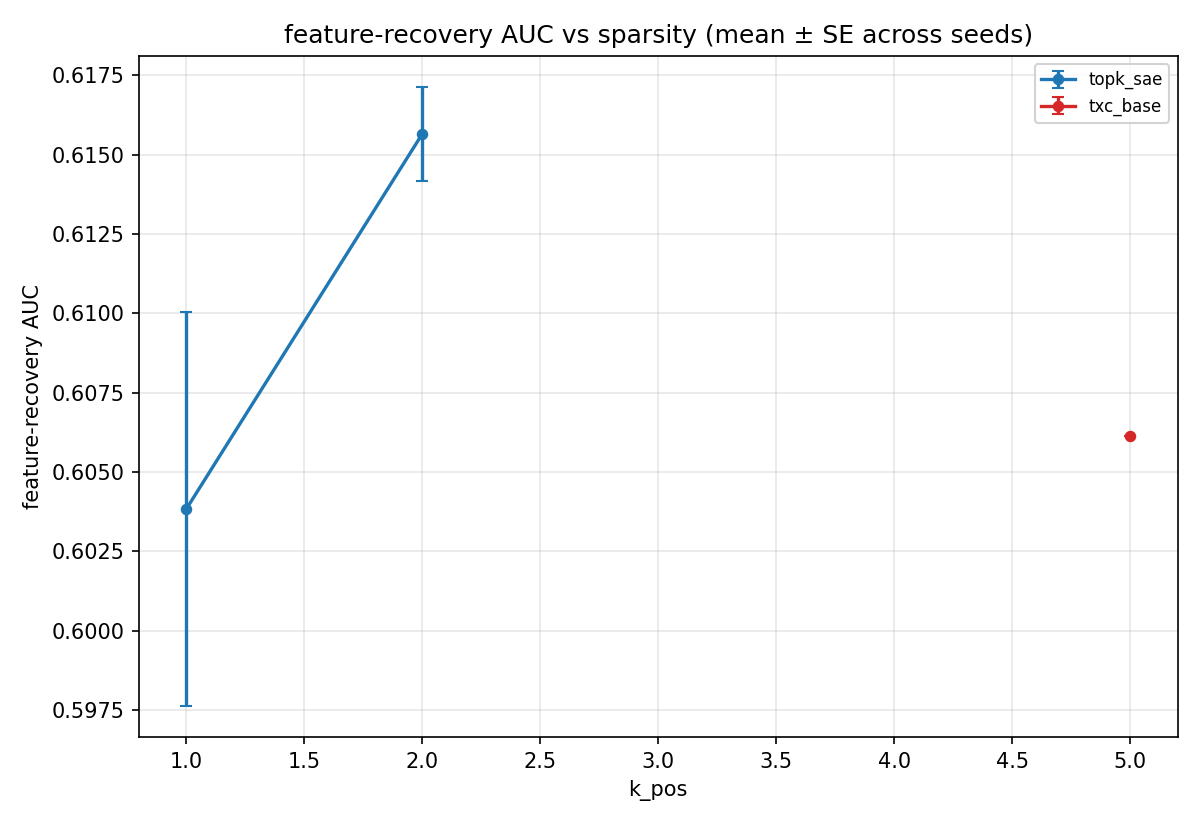
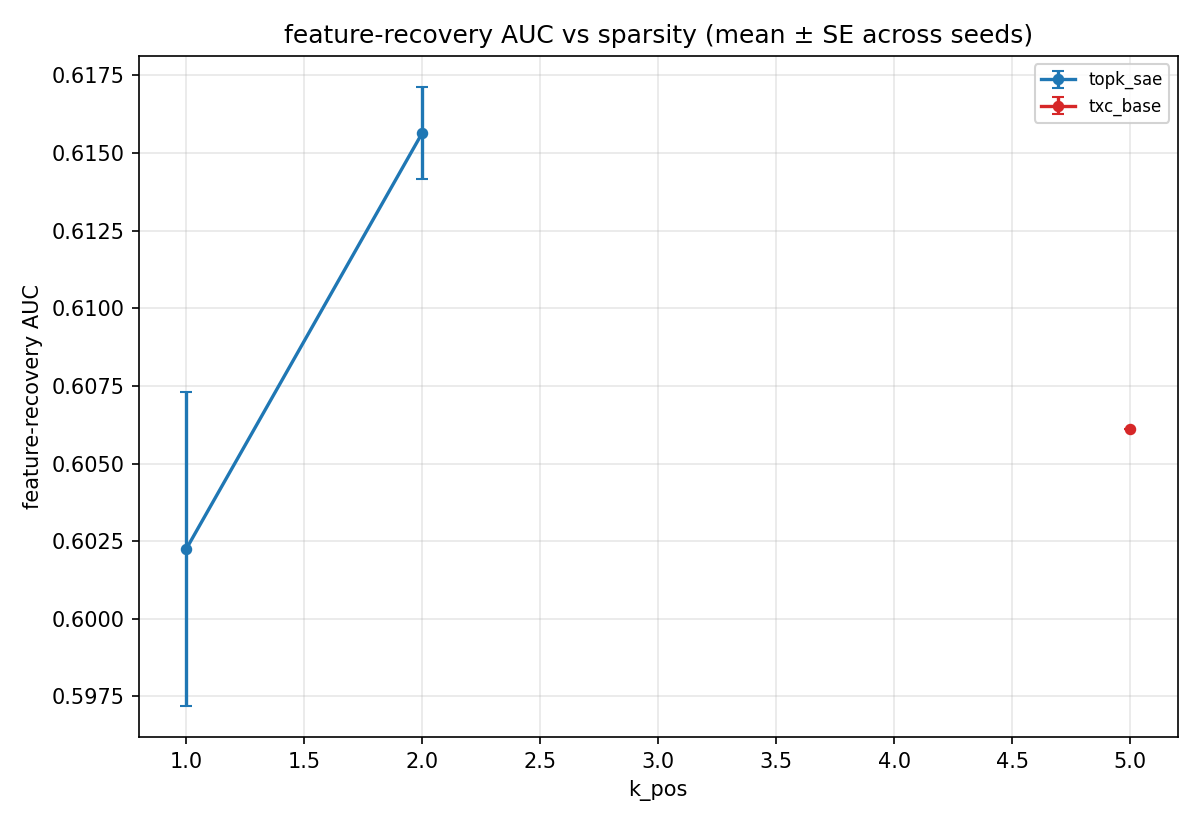
c1+c2 paper auto: refresh synthetic bundles (c1=, c2= leaderboard rows)
Auto-generated by purified/scripts/synthetic_paper_renderer.py.
Inputs: results/leaderboard.jsonl filtered to component in (c1,c2)
with eval_cfg._full_suite=true (the c{1,2}_synthetic_*_full driver flag).

diff --git a/purified/docs/components/c1_paper_results.md b/purified/docs/components/c1_paper_results.md
@@ -1,6 +1,6 @@
 # C1 Synthetic TopK — paper-ready results (auto-generated)
 
-_Last refreshed: 2026-05-06T19:25:41+00:00_
+_Last refreshed: 2026-05-06T19:30:46+00:00_
 
 ## Setup
 
@@ -9,7 +9,7 @@ _Last refreshed: 2026-05-06T19:25:41+00:00_
 - Metric: feature-recovery AUC against the 20 ground-truth orthogonal directions (per-feature max cosine ≥ τ, integrated over τ ∈ [0, 1]).
 - Driver: `experiments/c1_synthetic_topk_full/run.py` (routes through `temp_bench.data.toy_full.api`, isolated from agent_filler's `toy_markov_n20_d40` cache via distinct `act_cache_key`).
 
-Currently 8 cells across 2 (arch, T) configurations; seeds-per-cell range = [1, 3].
+Currently 9 cells across 2 (arch, T) configurations; seeds-per-cell range = [1, 3].
 
 ## Headline (peak AUC over k_pos)
 
@@ -26,5 +26,5 @@ Currently 8 cells across 2 (arch, T) configurations; seeds-per-cell range = [1, 
 
 | arch (T) | k=1 | k=2 | k=5 |
 |---|---|---|---|
-| `topk_sae` | 0.604 | 0.616 | — |
+| `topk_sae` | 0.602 | 0.616 | — |
 | `txc_base` | — | — | 0.606 |

diff --git a/purified/docs/components/c2_paper_results.md b/purified/docs/components/c2_paper_results.md
@@ -1,6 +1,6 @@
 # C2 Synthetic Coupled — paper-ready results (auto-generated)
 
-_Last refreshed: 2026-05-06T19:25:42+00:00_
+_Last refreshed: 2026-05-06T19:30:47+00:00_
 
 ## Setup
 
